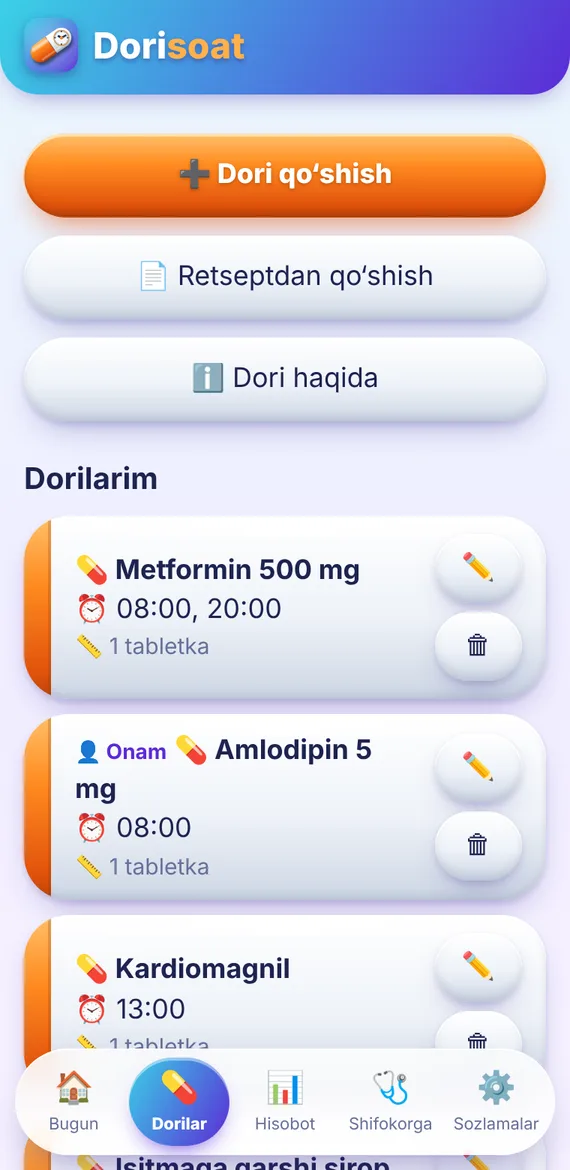
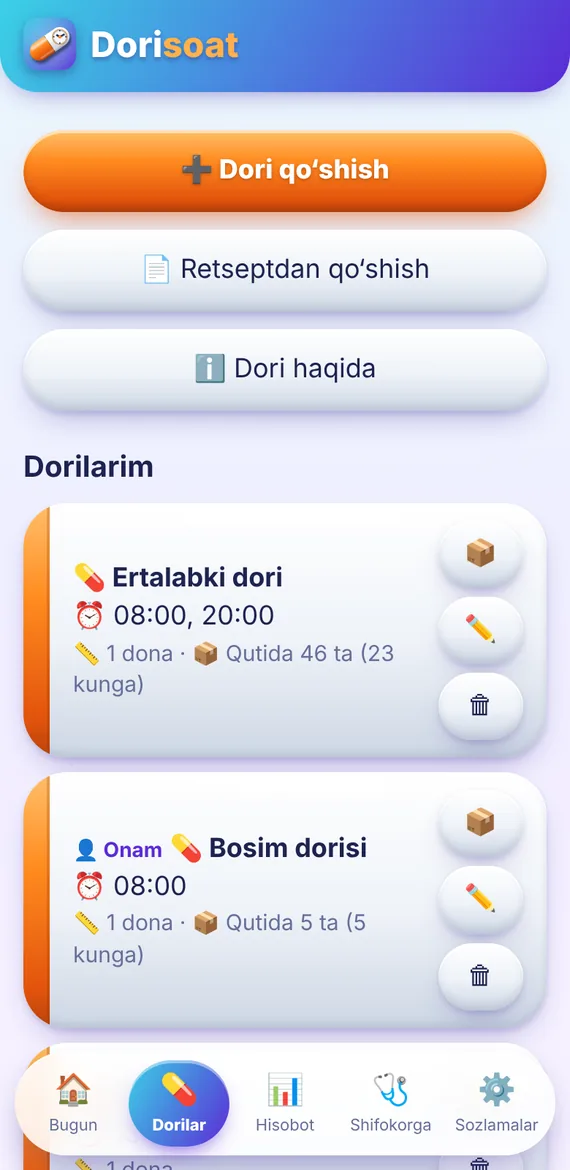
Ilova rasmlari yangi dizaynga almashtirildi
Bugun, Dori qo'shish (3 qadam), Hisobot, Shifokorga, Sozlamalar,
Dorilar — yangi ko'rinishda. Rasmlarda va bildirishnoma namunasida dori
nomi/dozasi o'rniga umumiy nom (reklamada brend va doza yo'q).

Claude-Session: https://claude.ai/code/session_01Q68JLKwddVkyEaesjndodL

Changed region(s): [[0.0298, 0.0615, 0.9842, 1.0], [0.0596, 0.0, 0.4474, 0.0615], [0.0298, 0.0615, 0.0596, 0.0923]]

diff --git a/index.html b/index.html
@@ -156,7 +156,7 @@ footer nav{display:flex;flex-wrap:wrap;gap:10px 18px;margin:14px 0}footer a{colo
   </div>
   <div class="stage">
     <div class="device"><img src="img/today.webp" alt="" width="570" height="700"></div>
-    <div class="ping" aria-hidden="true"><img src="logo.png" alt=""><b data-t="n_t">⏰ Dori vaqti: 08:00</b><small data-t="n_b">Metformin 500 mg · 1 tabletka</small>
+    <div class="ping" aria-hidden="true"><img src="logo.png" alt=""><b data-t="n_t">⏰ Dori vaqti: 08:00</b><small data-t="n_b">Ertalabki dori · 1 dona</small>
       <div class="acts"><span data-t="n_a1">✅ Ichdim</span><span data-t="n_a2">⏰ 15 daqiqadan keyin</span></div></div>
   </div>
 </div></header>
@@ -180,8 +180,10 @@ footer nav{display:flex;flex-wrap:wrap;gap:10px 18px;margin:14px 0}footer a{colo
   <p class="hint" data-t="hint">← Suring →</p>
   <div class="reel">
     <figure><img src="img/today.webp" alt="" loading="lazy" width="570" height="1170"><figcaption data-t="c1">Bugungi dorilar</figcaption></figure>
+    <figure><img src="img/add.webp" alt="" loading="lazy" width="570" height="1170"><figcaption data-t="c5">Dori qo‘shish — 3 qadam</figcaption></figure>
     <figure><img src="img/report.webp" alt="" loading="lazy" width="570" height="1170"><figcaption data-t="c3">Hisobot va kalendar</figcaption></figure>
     <figure><img src="img/doctor.webp" alt="" loading="lazy" width="570" height="1170"><figcaption data-t="c4">Shifokor uchun PDF</figcaption></figure>
+    <figure><img src="img/settings.webp" alt="" loading="lazy" width="570" height="1170"><figcaption data-t="c6">Sodda sozlamalar</figcaption></figure>
     <figure><img src="img/meds.webp" alt="" loading="lazy" width="570" height="1170"><figcaption data-t="c2">Dorilar ro‘yxati</figcaption></figure>
   </div>
 </div></section>
@@ -263,13 +265,13 @@ const RU = {
   lead: "Сфотографируйте рецепт. О каждом лекарстве напомним вовремя, вам останется нажать «Принял(а)».",
   apk: "⬇ Скачать бесплатно", play_soon: "В Google Play — скоро",
   t1: "Бесплатно", t2: "Без рекламы", t3: "Без интернета", t4: "O‘zbek · Русский",
-  n_t: "⏰ Время лекарства: 08:00", n_b: "Метформин 500 мг · 1 таблетка", n_a1: "✅ Принял(а)", n_a2: "⏰ Через 15 минут",
+  n_t: "⏰ Время лекарства: 08:00", n_b: "Утреннее лекарство · 1 шт.", n_a1: "✅ Принял(а)", n_a2: "⏰ Через 15 минут",
   k1: "Почему Dorisoat", why_h: "Три вещи — и ни одного пропуска",
   b1h: "Сфотографируйте рецепт", b1p: "Приложение прочитает его само — на телефоне, без интернета. Или скажите голосом.",
   b2h: "Напомнит точно вовремя", b2p: "Звонит как будильник. Не отметили — напомнит ещё раз через 10 минут.",
   b3h: "Близкие видят", b3p: "Ребёнок видит издалека, принял ли родитель лекарство — только с согласия.",
   k2: "Внутри приложения", sh_h: "Просто. Крупно. Понятно.", hint: "← Листайте →",
-  c1: "Лекарства на сегодня", c2: "Список лекарств", c3: "Отчёт и календарь", c4: "PDF для врача",
+  c1: "Лекарства на сегодня", c2: "Список лекарств", c3: "Отчёт и календарь", c4: "PDF для врача", c5: "Добавить лекарство — 3 шага", c6: "Простые настройки",
   k3: "Для кого", who_h: "Для каждой семьи",
   w1h: "Пожилым", w1p: "Крупные кнопки, голосовой ввод", w2h: "Детям", w2p: "Лекарства родителей под контролем",
   w3h: "Мамам", w3p: "Курс лекарств ребёнка отдельно", w4h: "Давление, сахар", w4p: "Дневник и графики",
